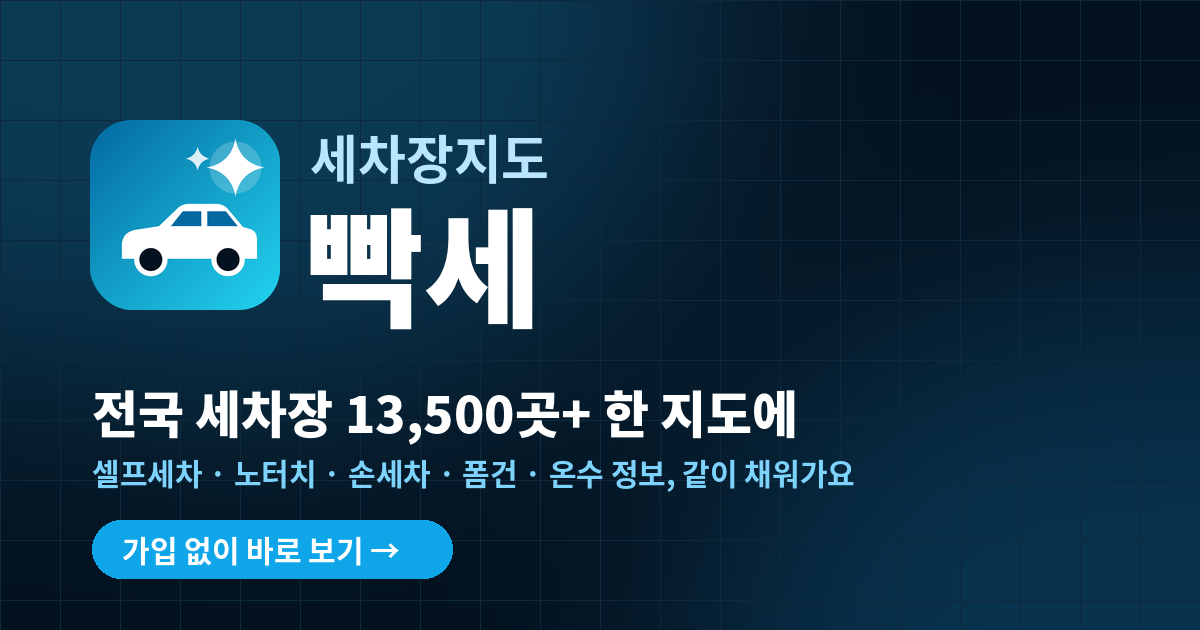
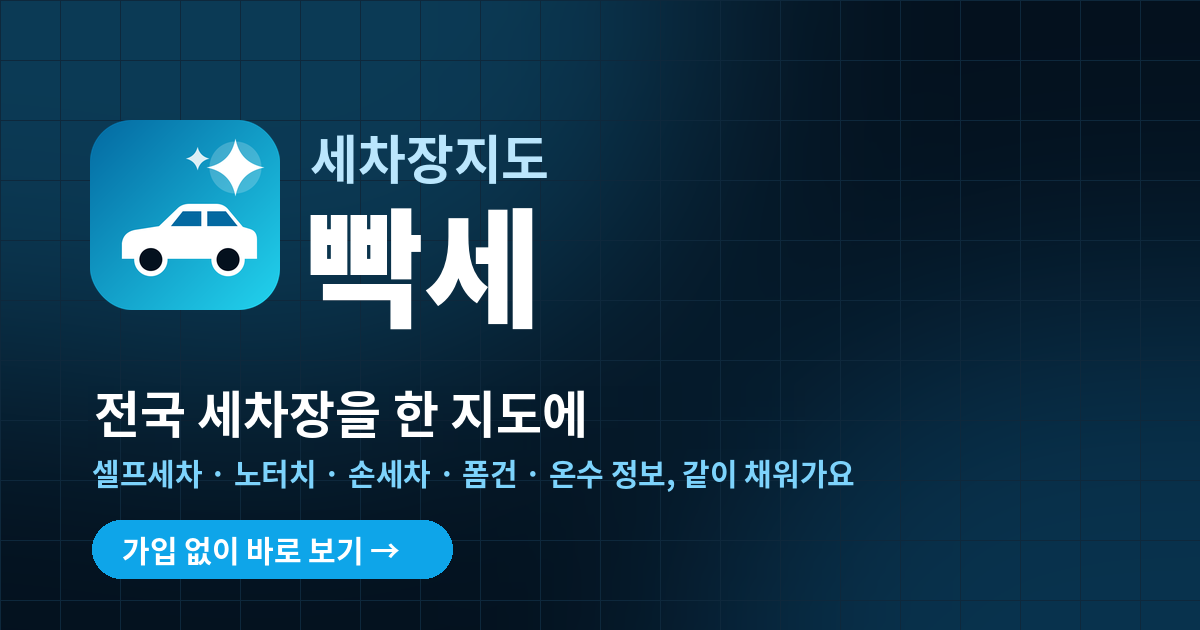
링크 미리보기 이미지에서 고정 숫자(13,500곳) 제거
- og.png 문구를 '전국 세차장을 한 지도에'로 바꿔 실제 세차장 수와 어긋나지 않게 함
- og:image 주소에 ?v=20261111을 붙여 카카오톡 등 미리보기 캐시를 새로 받게 함
- 랜딩 세차장 수 기본값 13,500 → … (실제 수를 불러오면 바뀜)

Claude-Session: https://claude.ai/code/session_01DUUKCdCEZ3T2vMDBij4pvR

Changed region(s): [[0.0617, 0.6032, 0.6783, 0.6937]]

diff --git a/index.html b/index.html
@@ -16,7 +16,7 @@
 <meta property="og:title" content="세차장지도 빡세 · 전국 세차장 지도">
 <meta property="og:description" content="셀프세차·노터치·손세차, 내 주변에서 찾고 폼건·온수 정보를 같이 채워가요.">
 <meta property="og:url" content="https://ppaxse.com/">
-<meta property="og:image" content="https://ppaxse.com/icons/og.png">
+<meta property="og:image" content="https://ppaxse.com/icons/og.png?v=20261111">
 <meta property="og:image:width" content="1200">
 <meta property="og:image:height" content="630">
 <meta name="twitter:card" content="summary_large_image">
@@ -173,7 +173,7 @@ footer{padding:28px 20px;text-align:center;font-size:11px;color:rgba(255,255,255
       <a href="map.html" class="cta-btn primary">🗺 내 주변 세차장 찾기</a>
     </div>
     <div class="hero-kpi">
-      <div class="kpi-item"><div class="kpi-num"><b id="placeCount">13,500</b><span>+</span></div><div class="kpi-label">지도에 있는 세차장</div></div>
+      <div class="kpi-item"><div class="kpi-num"><b id="placeCount">…</b><span>+</span></div><div class="kpi-label">지도에 있는 세차장</div></div>
     </div>
   </section>
 

diff --git a/map.html b/map.html
@@ -16,7 +16,7 @@
 <meta property="og:title" content="세차장지도 빡세 · 내 주변 세차장 찾기">
 <meta property="og:description" content="전국 세차장 지도. 폼건·온수·노터치 정보, 같이 채워가요.">
 <meta property="og:url" content="https://ppaxse.com/map.html">
-<meta property="og:image" content="https://ppaxse.com/icons/og.png">
+<meta property="og:image" content="https://ppaxse.com/icons/og.png?v=20261111">
 <meta property="og:image:width" content="1200">
 <meta property="og:image:height" content="630">
 <meta name="twitter:card" content="summary_large_image">
